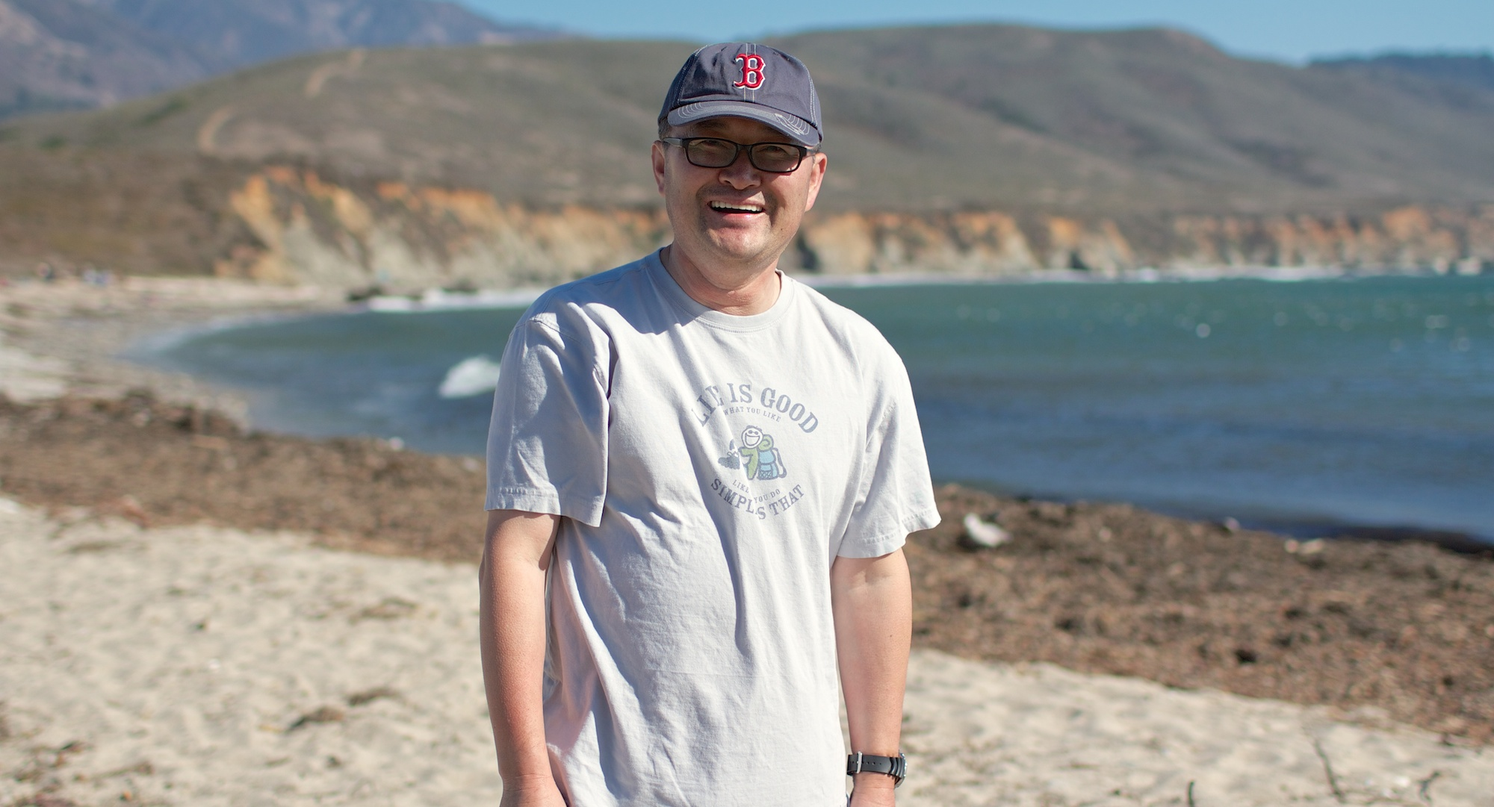
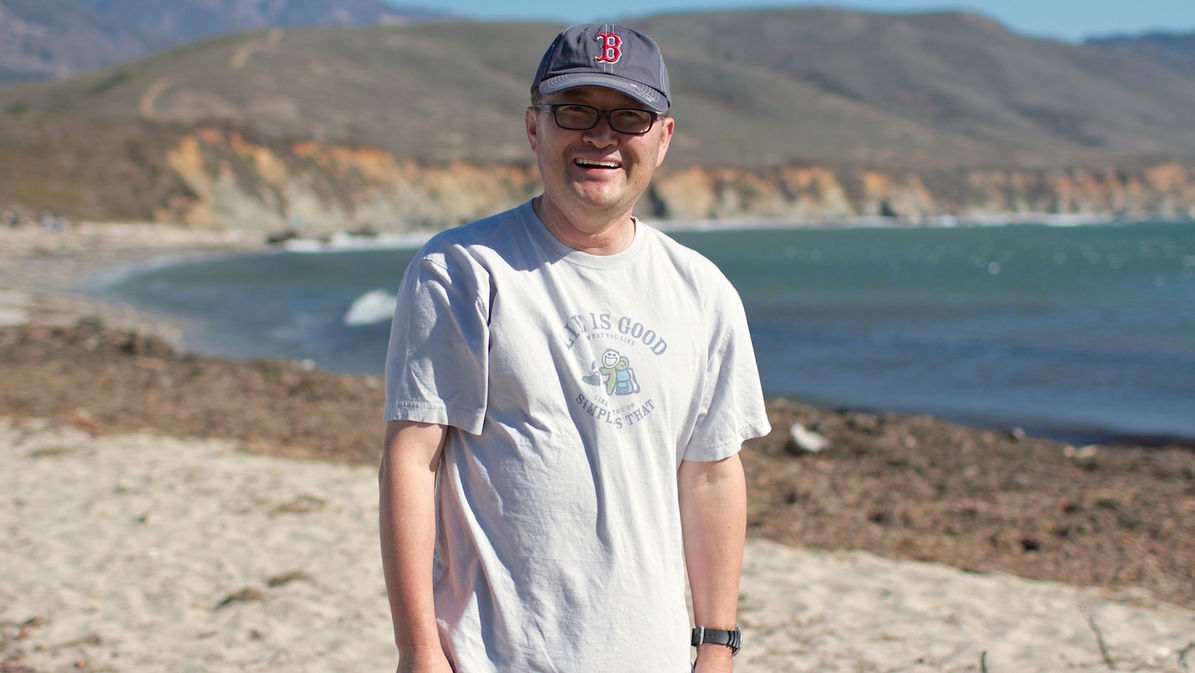
Added slider control, owl.carousel.js and css

diff --git a/js/owl.carousel.min.js b/js/owl.carousel.min.js
@@ -1,0 +1,47 @@
+"function"!==typeof Object.create&&(Object.create=function(f){function g(){}g.prototype=f;return new g});
+(function(f,g,k){var l={init:function(a,b){this.$elem=f(b);this.options=f.extend({},f.fn.owlCarousel.options,this.$elem.data(),a);this.userOptions=a;this.loadContent()},loadContent:function(){function a(a){var d,e="";if("function"===typeof b.options.jsonSuccess)b.options.jsonSuccess.apply(this,[a]);else{for(d in a.owl)a.owl.hasOwnProperty(d)&&(e+=a.owl[d].item);b.$elem.html(e)}b.logIn()}var b=this,e;"function"===typeof b.options.beforeInit&&b.options.beforeInit.apply(this,[b.$elem]);"string"===typeof b.options.jsonPath?
+(e=b.options.jsonPath,f.getJSON(e,a)):b.logIn()},logIn:function(){this.$elem.data("owl-originalStyles",this.$elem.attr("style"));this.$elem.data("owl-originalClasses",this.$elem.attr("class"));this.$elem.css({opacity:0});this.orignalItems=this.options.items;this.checkBrowser();this.wrapperWidth=0;this.checkVisible=null;this.setVars()},setVars:function(){if(0===this.$elem.children().length)return!1;this.baseClass();this.eventTypes();this.$userItems=this.$elem.children();this.itemsAmount=this.$userItems.length;
+this.wrapItems();this.$owlItems=this.$elem.find(".owl-item");this.$owlWrapper=this.$elem.find(".owl-wrapper");this.playDirection="next";this.prevItem=0;this.prevArr=[0];this.currentItem=0;this.customEvents();this.onStartup()},onStartup:function(){this.updateItems();this.calculateAll();this.buildControls();this.updateControls();this.response();this.moveEvents();this.stopOnHover();this.owlStatus();!1!==this.options.transitionStyle&&this.transitionTypes(this.options.transitionStyle);!0===this.options.autoPlay&&
+(this.options.autoPlay=5E3);this.play();this.$elem.find(".owl-wrapper").css("display","block");this.$elem.is(":visible")?this.$elem.css("opacity",1):this.watchVisibility();this.onstartup=!1;this.eachMoveUpdate();"function"===typeof this.options.afterInit&&this.options.afterInit.apply(this,[this.$elem])},eachMoveUpdate:function(){!0===this.options.lazyLoad&&this.lazyLoad();!0===this.options.autoHeight&&this.autoHeight();this.onVisibleItems();"function"===typeof this.options.afterAction&&this.options.afterAction.apply(this,
+[this.$elem])},updateVars:function(){"function"===typeof this.options.beforeUpdate&&this.options.beforeUpdate.apply(this,[this.$elem]);this.watchVisibility();this.updateItems();this.calculateAll();this.updatePosition();this.updateControls();this.eachMoveUpdate();"function"===typeof this.options.afterUpdate&&this.options.afterUpdate.apply(this,[this.$elem])},reload:function(){var a=this;g.setTimeout(function(){a.updateVars()},0)},watchVisibility:function(){var a=this;if(!1===a.$elem.is(":visible"))a.$elem.css({opacity:0}),
+g.clearInterval(a.autoPlayInterval),g.clearInterval(a.checkVisible);else return!1;a.checkVisible=g.setInterval(function(){a.$elem.is(":visible")&&(a.reload(),a.$elem.animate({opacity:1},200),g.clearInterval(a.checkVisible))},500)},wrapItems:function(){this.$userItems.wrapAll('<div class="owl-wrapper">').wrap('<div class="owl-item"></div>');this.$elem.find(".owl-wrapper").wrap('<div class="owl-wrapper-outer">');this.wrapperOuter=this.$elem.find(".owl-wrapper-outer");this.$elem.css("display","block")},
+baseClass:function(){var a=this.$elem.hasClass(this.options.baseClass),b=this.$elem.hasClass(this.options.theme);a||this.$elem.addClass(this.options.baseClass);b||this.$elem.addClass(this.options.theme)},updateItems:function(){var a,b;if(!1===this.options.responsive)return!1;if(!0===this.options.singleItem)return this.options.items=this.orignalItems=1,this.options.itemsCustom=!1,this.options.itemsDesktop=!1,this.options.itemsDesktopSmall=!1,this.options.itemsTablet=!1,this.options.itemsTabletSmall=
+!1,this.options.itemsMobile=!1;a=f(this.options.responsiveBaseWidth).width();a>(this.options.itemsDesktop[0]||this.orignalItems)&&(this.options.items=this.orignalItems);if(!1!==this.options.itemsCustom)for(this.options.itemsCustom.sort(function(a,b){return a[0]-b[0]}),b=0;b<this.options.itemsCustom.length;b+=1)this.options.itemsCustom[b][0]<=a&&(this.options.items=this.options.itemsCustom[b][1]);else a<=this.options.itemsDesktop[0]&&!1!==this.options.itemsDesktop&&(this.options.items=this.options.itemsDesktop[1]),
+a<=this.options.itemsDesktopSmall[0]&&!1!==this.options.itemsDesktopSmall&&(this.options.items=this.options.itemsDesktopSmall[1]),a<=this.options.itemsTablet[0]&&!1!==this.options.itemsTablet&&(this.options.items=this.options.itemsTablet[1]),a<=this.options.itemsTabletSmall[0]&&!1!==this.options.itemsTabletSmall&&(this.options.items=this.options.itemsTabletSmall[1]),a<=this.options.itemsMobile[0]&&!1!==this.options.itemsMobile&&(this.options.items=this.options.itemsMobile[1]);this.options.items>this.itemsAmount&&
+!0===this.options.itemsScaleUp&&(this.options.items=this.itemsAmount)},response:function(){var a=this,b,e;if(!0!==a.options.responsive)return!1;e=f(g).width();a.resizer=function(){f(g).width()!==e&&(!1!==a.options.autoPlay&&g.clearInterval(a.autoPlayInterval),g.clearTimeout(b),b=g.setTimeout(function(){e=f(g).width();a.updateVars()},a.options.responsiveRefreshRate))};f(g).resize(a.resizer)},updatePosition:function(){this.jumpTo(this.currentItem);!1!==this.options.autoPlay&&this.checkAp()},appendItemsSizes:function(){var a=
+this,b=0,e=a.itemsAmount-a.options.items;a.$owlItems.each(function(c){var d=f(this);d.css({width:a.itemWidth}).data("owl-item",Number(c));if(0===c%a.options.items||c===e)c>e||(b+=1);d.data("owl-roundPages",b)})},appendWrapperSizes:function(){this.$owlWrapper.css({width:this.$owlItems.length*this.itemWidth*2,left:0});this.appendItemsSizes()},calculateAll:function(){this.calculateWidth();this.appendWrapperSizes();this.loops();this.max()},calculateWidth:function(){this.itemWidth=Math.round(this.$elem.width()/
+this.options.items)},max:function(){var a=-1*(this.itemsAmount*this.itemWidth-this.options.items*this.itemWidth);this.options.items>this.itemsAmount?this.maximumPixels=a=this.maximumItem=0:(this.maximumItem=this.itemsAmount-this.options.items,this.maximumPixels=a);return a},min:function(){return 0},loops:function(){var a=0,b=0,e,c;this.positionsInArray=[0];this.pagesInArray=[];for(e=0;e<this.itemsAmount;e+=1)b+=this.itemWidth,this.positionsInArray.push(-b),!0===this.options.scrollPerPage&&(c=f(this.$owlItems[e]),
+c=c.data("owl-roundPages"),c!==a&&(this.pagesInArray[a]=this.positionsInArray[e],a=c))},buildControls:function(){if(!0===this.options.navigation||!0===this.options.pagination)this.owlControls=f('<div class="owl-controls"/>').toggleClass("clickable",!this.browser.isTouch).appendTo(this.$elem);!0===this.options.pagination&&this.buildPagination();!0===this.options.navigation&&this.buildButtons()},buildButtons:function(){var a=this,b=f('<div class="owl-buttons"/>');a.owlControls.append(b);a.buttonPrev=
+f("<div/>",{"class":"owl-prev",html:a.options.navigationText[0]||""});a.buttonNext=f("<div/>",{"class":"owl-next",html:a.options.navigationText[1]||""});b.append(a.buttonPrev).append(a.buttonNext);b.on("touchstart.owlControls mousedown.owlControls",'div[class^="owl"]',function(a){a.preventDefault()});b.on("touchend.owlControls mouseup.owlControls",'div[class^="owl"]',function(b){b.preventDefault();f(this).hasClass("owl-next")?a.next():a.prev()})},buildPagination:function(){var a=this;a.paginationWrapper=
+f('<div class="owl-pagination"/>');a.owlControls.append(a.paginationWrapper);a.paginationWrapper.on("touchend.owlControls mouseup.owlControls",".owl-page",function(b){b.preventDefault();Number(f(this).data("owl-page"))!==a.currentItem&&a.goTo(Number(f(this).data("owl-page")),!0)})},updatePagination:function(){var a,b,e,c,d,g;if(!1===this.options.pagination)return!1;this.paginationWrapper.html("");a=0;b=this.itemsAmount-this.itemsAmount%this.options.items;for(c=0;c<this.itemsAmount;c+=1)0===c%this.options.items&&
+(a+=1,b===c&&(e=this.itemsAmount-this.options.items),d=f("<div/>",{"class":"owl-page"}),g=f("<span></span>",{text:!0===this.options.paginationNumbers?a:"","class":!0===this.options.paginationNumbers?"owl-numbers":""}),d.append(g),d.data("owl-page",b===c?e:c),d.data("owl-roundPages",a),this.paginationWrapper.append(d));this.checkPagination()},checkPagination:function(){var a=this;if(!1===a.options.pagination)return!1;a.paginationWrapper.find(".owl-page").each(function(){f(this).data("owl-roundPages")===
+f(a.$owlItems[a.currentItem]).data("owl-roundPages")&&(a.paginationWrapper.find(".owl-page").removeClass("active"),f(this).addClass("active"))})},checkNavigation:function(){if(!1===this.options.navigation)return!1;!1===this.options.rewindNav&&(0===this.currentItem&&0===this.maximumItem?(this.buttonPrev.addClass("disabled"),this.buttonNext.addClass("disabled")):0===this.currentItem&&0!==this.maximumItem?(this.buttonPrev.addClass("disabled"),this.buttonNext.removeClass("disabled")):this.currentItem===
+this.maximumItem?(this.buttonPrev.removeClass("disabled"),this.buttonNext.addClass("disabled")):0!==this.currentItem&&this.currentItem!==this.maximumItem&&(this.buttonPrev.removeClass("disabled"),this.buttonNext.removeClass("disabled")))},updateControls:function(){this.updatePagination();this.checkNavigation();this.owlControls&&(this.options.items>=this.itemsAmount?this.owlControls.hide():this.owlControls.show())},destroyControls:function(){this.owlControls&&this.owlControls.remove()},next:function(a){if(this.isTransition)return!1;
+this.currentItem+=!0===this.options.scrollPerPage?this.options.items:1;if(this.currentItem>this.maximumItem+(!0===this.options.scrollPerPage?this.options.items-1:0))if(!0===this.options.rewindNav)this.currentItem=0,a="rewind";else return this.currentItem=this.maximumItem,!1;this.goTo(this.currentItem,a)},prev:function(a){if(this.isTransition)return!1;this.currentItem=!0===this.options.scrollPerPage&&0<this.currentItem&&this.currentItem<this.options.items?0:this.currentItem-(!0===this.options.scrollPerPage?
+this.options.items:1);if(0>this.currentItem)if(!0===this.options.rewindNav)this.currentItem=this.maximumItem,a="rewind";else return this.currentItem=0,!1;this.goTo(this.currentItem,a)},goTo:function(a,b,e){var c=this;if(c.isTransition)return!1;"function"===typeof c.options.beforeMove&&c.options.beforeMove.apply(this,[c.$elem]);a>=c.maximumItem?a=c.maximumItem:0>=a&&(a=0);c.currentItem=c.owl.currentItem=a;if(!1!==c.options.transitionStyle&&"drag"!==e&&1===c.options.items&&!0===c.browser.support3d)return c.swapSpeed(0),
+!0===c.browser.support3d?c.transition3d(c.positionsInArray[a]):c.css2slide(c.positionsInArray[a],1),c.afterGo(),c.singleItemTransition(),!1;a=c.positionsInArray[a];!0===c.browser.support3d?(c.isCss3Finish=!1,!0===b?(c.swapSpeed("paginationSpeed"),g.setTimeout(function(){c.isCss3Finish=!0},c.options.paginationSpeed)):"rewind"===b?(c.swapSpeed(c.options.rewindSpeed),g.setTimeout(function(){c.isCss3Finish=!0},c.options.rewindSpeed)):(c.swapSpeed("slideSpeed"),g.setTimeout(function(){c.isCss3Finish=!0},
+c.options.slideSpeed)),c.transition3d(a)):!0===b?c.css2slide(a,c.options.paginationSpeed):"rewind"===b?c.css2slide(a,c.options.rewindSpeed):c.css2slide(a,c.options.slideSpeed);c.afterGo()},jumpTo:function(a){"function"===typeof this.options.beforeMove&&this.options.beforeMove.apply(this,[this.$elem]);a>=this.maximumItem||-1===a?a=this.maximumItem:0>=a&&(a=0);this.swapSpeed(0);!0===this.browser.support3d?this.transition3d(this.positionsInArray[a]):this.css2slide(this.positionsInArray[a],1);this.currentItem=
+this.owl.currentItem=a;this.afterGo()},afterGo:function(){this.prevArr.push(this.currentItem);this.prevItem=this.owl.prevItem=this.prevArr[this.prevArr.length-2];this.prevArr.shift(0);this.prevItem!==this.currentItem&&(this.checkPagination(),this.checkNavigation(),this.eachMoveUpdate(),!1!==this.options.autoPlay&&this.checkAp());"function"===typeof this.options.afterMove&&this.prevItem!==this.currentItem&&this.options.afterMove.apply(this,[this.$elem])},stop:function(){this.apStatus="stop";g.clearInterval(this.autoPlayInterval)},
+checkAp:function(){"stop"!==this.apStatus&&this.play()},play:function(){var a=this;a.apStatus="play";if(!1===a.options.autoPlay)return!1;g.clearInterval(a.autoPlayInterval);a.autoPlayInterval=g.setInterval(function(){a.next(!0)},a.options.autoPlay)},swapSpeed:function(a){"slideSpeed"===a?this.$owlWrapper.css(this.addCssSpeed(this.options.slideSpeed)):"paginationSpeed"===a?this.$owlWrapper.css(this.addCssSpeed(this.options.paginationSpeed)):"string"!==typeof a&&this.$owlWrapper.css(this.addCssSpeed(a))},
+addCssSpeed:function(a){return{"-webkit-transition":"all "+a+"ms ease","-moz-transition":"all "+a+"ms ease","-o-transition":"all "+a+"ms ease",transition:"all "+a+"ms ease"}},removeTransition:function(){return{"-webkit-transition":"","-moz-transition":"","-o-transition":"",transition:""}},doTranslate:function(a){return{"-webkit-transform":"translate3d("+a+"px, 0px, 0px)","-moz-transform":"translate3d("+a+"px, 0px, 0px)","-o-transform":"translate3d("+a+"px, 0px, 0px)","-ms-transform":"translate3d("+
+a+"px, 0px, 0px)",transform:"translate3d("+a+"px, 0px,0px)"}},transition3d:function(a){this.$owlWrapper.css(this.doTranslate(a))},css2move:function(a){this.$owlWrapper.css({left:a})},css2slide:function(a,b){var e=this;e.isCssFinish=!1;e.$owlWrapper.stop(!0,!0).animate({left:a},{duration:b||e.options.slideSpeed,complete:function(){e.isCssFinish=!0}})},checkBrowser:function(){var a=k.createElement("div");a.style.cssText="  -moz-transform:translate3d(0px, 0px, 0px); -ms-transform:translate3d(0px, 0px, 0px); -o-transform:translate3d(0px, 0px, 0px); -webkit-transform:translate3d(0px, 0px, 0px); transform:translate3d(0px, 0px, 0px)";
+a=a.style.cssText.match(/translate3d\(0px, 0px, 0px\)/g);this.browser={support3d:null!==a&&1===a.length,isTouch:"ontouchstart"in g||g.navigator.msMaxTouchPoints}},moveEvents:function(){if(!1!==this.options.mouseDrag||!1!==this.options.touchDrag)this.gestures(),this.disabledEvents()},eventTypes:function(){var a=["s","e","x"];this.ev_types={};!0===this.options.mouseDrag&&!0===this.options.touchDrag?a=["touchstart.owl mousedown.owl","touchmove.owl mousemove.owl","touchend.owl touchcancel.owl mouseup.owl"]:
+!1===this.options.mouseDrag&&!0===this.options.touchDrag?a=["touchstart.owl","touchmove.owl","touchend.owl touchcancel.owl"]:!0===this.options.mouseDrag&&!1===this.options.touchDrag&&(a=["mousedown.owl","mousemove.owl","mouseup.owl"]);this.ev_types.start=a[0];this.ev_types.move=a[1];this.ev_types.end=a[2]},disabledEvents:function(){this.$elem.on("dragstart.owl",function(a){a.preventDefault()});this.$elem.on("mousedown.disableTextSelect",function(a){return f(a.target).is("input, textarea, select, option")})},
+gestures:function(){function a(a){if(void 0!==a.touches)return{x:a.touches[0].pageX,y:a.touches[0].pageY};if(void 0===a.touches){if(void 0!==a.pageX)return{x:a.pageX,y:a.pageY};if(void 0===a.pageX)return{x:a.clientX,y:a.clientY}}}function b(a){"on"===a?(f(k).on(d.ev_types.move,e),f(k).on(d.ev_types.end,c)):"off"===a&&(f(k).off(d.ev_types.move),f(k).off(d.ev_types.end))}function e(b){b=b.originalEvent||b||g.event;d.newPosX=a(b).x-h.offsetX;d.newPosY=a(b).y-h.offsetY;d.newRelativeX=d.newPosX-h.relativePos;
+"function"===typeof d.options.startDragging&&!0!==h.dragging&&0!==d.newRelativeX&&(h.dragging=!0,d.options.startDragging.apply(d,[d.$elem]));(8<d.newRelativeX||-8>d.newRelativeX)&&!0===d.browser.isTouch&&(void 0!==b.preventDefault?b.preventDefault():b.returnValue=!1,h.sliding=!0);(10<d.newPosY||-10>d.newPosY)&&!1===h.sliding&&f(k).off("touchmove.owl");d.newPosX=Math.max(Math.min(d.newPosX,d.newRelativeX/5),d.maximumPixels+d.newRelativeX/5);!0===d.browser.support3d?d.transition3d(d.newPosX):d.css2move(d.newPosX)}
+function c(a){a=a.originalEvent||a||g.event;var c;a.target=a.target||a.srcElement;h.dragging=!1;!0!==d.browser.isTouch&&d.$owlWrapper.removeClass("grabbing");d.dragDirection=0>d.newRelativeX?d.owl.dragDirection="left":d.owl.dragDirection="right";0!==d.newRelativeX&&(c=d.getNewPosition(),d.goTo(c,!1,"drag"),h.targetElement===a.target&&!0!==d.browser.isTouch&&(f(a.target).on("click.disable",function(a){a.stopImmediatePropagation();a.stopPropagation();a.preventDefault();f(a.target).off("click.disable")}),
+a=f._data(a.target,"events").click,c=a.pop(),a.splice(0,0,c)));b("off")}var d=this,h={offsetX:0,offsetY:0,baseElWidth:0,relativePos:0,position:null,minSwipe:null,maxSwipe:null,sliding:null,dargging:null,targetElement:null};d.isCssFinish=!0;d.$elem.on(d.ev_types.start,".owl-wrapper",function(c){c=c.originalEvent||c||g.event;var e;if(3===c.which)return!1;if(!(d.itemsAmount<=d.options.items)){if(!1===d.isCssFinish&&!d.options.dragBeforeAnimFinish||!1===d.isCss3Finish&&!d.options.dragBeforeAnimFinish)return!1;
+!1!==d.options.autoPlay&&g.clearInterval(d.autoPlayInterval);!0===d.browser.isTouch||d.$owlWrapper.hasClass("grabbing")||d.$owlWrapper.addClass("grabbing");d.newPosX=0;d.newRelativeX=0;f(this).css(d.removeTransition());e=f(this).position();h.relativePos=e.left;h.offsetX=a(c).x-e.left;h.offsetY=a(c).y-e.top;b("on");h.sliding=!1;h.targetElement=c.target||c.srcElement}})},getNewPosition:function(){var a=this.closestItem();a>this.maximumItem?a=this.currentItem=this.maximumItem:0<=this.newPosX&&(this.currentItem=
+a=0);return a},closestItem:function(){var a=this,b=!0===a.options.scrollPerPage?a.pagesInArray:a.positionsInArray,e=a.newPosX,c=null;f.each(b,function(d,g){e-a.itemWidth/20>b[d+1]&&e-a.itemWidth/20<g&&"left"===a.moveDirection()?(c=g,a.currentItem=!0===a.options.scrollPerPage?f.inArray(c,a.positionsInArray):d):e+a.itemWidth/20<g&&e+a.itemWidth/20>(b[d+1]||b[d]-a.itemWidth)&&"right"===a.moveDirection()&&(!0===a.options.scrollPerPage?(c=b[d+1]||b[b.length-1],a.currentItem=f.inArray(c,a.positionsInArray)):
+(c=b[d+1],a.currentItem=d+1))});return a.currentItem},moveDirection:function(){var a;0>this.newRelativeX?(a="right",this.playDirection="next"):(a="left",this.playDirection="prev");return a},customEvents:function(){var a=this;a.$elem.on("owl.next",function(){a.next()});a.$elem.on("owl.prev",function(){a.prev()});a.$elem.on("owl.play",function(b,e){a.options.autoPlay=e;a.play();a.hoverStatus="play"});a.$elem.on("owl.stop",function(){a.stop();a.hoverStatus="stop"});a.$elem.on("owl.goTo",function(b,e){a.goTo(e)});
+a.$elem.on("owl.jumpTo",function(b,e){a.jumpTo(e)})},stopOnHover:function(){var a=this;!0===a.options.stopOnHover&&!0!==a.browser.isTouch&&!1!==a.options.autoPlay&&(a.$elem.on("mouseover",function(){a.stop()}),a.$elem.on("mouseout",function(){"stop"!==a.hoverStatus&&a.play()}))},lazyLoad:function(){var a,b,e,c,d;if(!1===this.options.lazyLoad)return!1;for(a=0;a<this.itemsAmount;a+=1)b=f(this.$owlItems[a]),"loaded"!==b.data("owl-loaded")&&(e=b.data("owl-item"),c=b.find(".lazyOwl"),"string"!==typeof c.data("src")?
+b.data("owl-loaded","loaded"):(void 0===b.data("owl-loaded")&&(c.hide(),b.addClass("loading").data("owl-loaded","checked")),(d=!0===this.options.lazyFollow?e>=this.currentItem:!0)&&e<this.currentItem+this.options.items&&c.length&&this.lazyPreload(b,c)))},lazyPreload:function(a,b){function e(){a.data("owl-loaded","loaded").removeClass("loading");b.removeAttr("data-src");"fade"===d.options.lazyEffect?b.fadeIn(400):b.show();"function"===typeof d.options.afterLazyLoad&&d.options.afterLazyLoad.apply(this,
+[d.$elem])}function c(){f+=1;d.completeImg(b.get(0))||!0===k?e():100>=f?g.setTimeout(c,100):e()}var d=this,f=0,k;"DIV"===b.prop("tagName")?(b.css("background-image","url("+b.data("src")+")"),k=!0):b[0].src=b.data("src");c()},autoHeight:function(){function a(){var a=f(e.$owlItems[e.currentItem]).height();e.wrapperOuter.css("height",a+"px");e.wrapperOuter.hasClass("autoHeight")||g.setTimeout(function(){e.wrapperOuter.addClass("autoHeight")},0)}function b(){d+=1;e.completeImg(c.get(0))?a():100>=d?g.setTimeout(b,
+100):e.wrapperOuter.css("height","")}var e=this,c=f(e.$owlItems[e.currentItem]).find("img"),d;void 0!==c.get(0)?(d=0,b()):a()},completeImg:function(a){return!a.complete||"undefined"!==typeof a.naturalWidth&&0===a.naturalWidth?!1:!0},onVisibleItems:function(){var a;!0===this.options.addClassActive&&this.$owlItems.removeClass("active");this.visibleItems=[];for(a=this.currentItem;a<this.currentItem+this.options.items;a+=1)this.visibleItems.push(a),!0===this.options.addClassActive&&f(this.$owlItems[a]).addClass("active");
+this.owl.visibleItems=this.visibleItems},transitionTypes:function(a){this.outClass="owl-"+a+"-out";this.inClass="owl-"+a+"-in"},singleItemTransition:function(){var a=this,b=a.outClass,e=a.inClass,c=a.$owlItems.eq(a.currentItem),d=a.$owlItems.eq(a.prevItem),f=Math.abs(a.positionsInArray[a.currentItem])+a.positionsInArray[a.prevItem],g=Math.abs(a.positionsInArray[a.currentItem])+a.itemWidth/2;a.isTransition=!0;a.$owlWrapper.addClass("owl-origin").css({"-webkit-transform-origin":g+"px","-moz-perspective-origin":g+
+"px","perspective-origin":g+"px"});d.css({position:"relative",left:f+"px"}).addClass(b).on("webkitAnimationEnd oAnimationEnd MSAnimationEnd animationend",function(){a.endPrev=!0;d.off("webkitAnimationEnd oAnimationEnd MSAnimationEnd animationend");a.clearTransStyle(d,b)});c.addClass(e).on("webkitAnimationEnd oAnimationEnd MSAnimationEnd animationend",function(){a.endCurrent=!0;c.off("webkitAnimationEnd oAnimationEnd MSAnimationEnd animationend");a.clearTransStyle(c,e)})},clearTransStyle:function(a,
+b){a.css({position:"",left:""}).removeClass(b);this.endPrev&&this.endCurrent&&(this.$owlWrapper.removeClass("owl-origin"),this.isTransition=this.endCurrent=this.endPrev=!1)},owlStatus:function(){this.owl={userOptions:this.userOptions,baseElement:this.$elem,userItems:this.$userItems,owlItems:this.$owlItems,currentItem:this.currentItem,prevItem:this.prevItem,visibleItems:this.visibleItems,isTouch:this.browser.isTouch,browser:this.browser,dragDirection:this.dragDirection}},clearEvents:function(){this.$elem.off(".owl owl mousedown.disableTextSelect");
+f(k).off(".owl owl");f(g).off("resize",this.resizer)},unWrap:function(){0!==this.$elem.children().length&&(this.$owlWrapper.unwrap(),this.$userItems.unwrap().unwrap(),this.owlControls&&this.owlControls.remove());this.clearEvents();this.$elem.attr("style",this.$elem.data("owl-originalStyles")||"").attr("class",this.$elem.data("owl-originalClasses"))},destroy:function(){this.stop();g.clearInterval(this.checkVisible);this.unWrap();this.$elem.removeData()},reinit:function(a){a=f.extend({},this.userOptions,
+a);this.unWrap();this.init(a,this.$elem)},addItem:function(a,b){var e;if(!a)return!1;if(0===this.$elem.children().length)return this.$elem.append(a),this.setVars(),!1;this.unWrap();e=void 0===b||-1===b?-1:b;e>=this.$userItems.length||-1===e?this.$userItems.eq(-1).after(a):this.$userItems.eq(e).before(a);this.setVars()},removeItem:function(a){if(0===this.$elem.children().length)return!1;a=void 0===a||-1===a?-1:a;this.unWrap();this.$userItems.eq(a).remove();this.setVars()}};f.fn.owlCarousel=function(a){return this.each(function(){if(!0===
+f(this).data("owl-init"))return!1;f(this).data("owl-init",!0);var b=Object.create(l);b.init(a,this);f.data(this,"owlCarousel",b)})};f.fn.owlCarousel.options={items:5,itemsCustom:!1,itemsDesktop:[1199,4],itemsDesktopSmall:[979,3],itemsTablet:[768,2],itemsTabletSmall:!1,itemsMobile:[479,1],singleItem:!1,itemsScaleUp:!1,slideSpeed:200,paginationSpeed:800,rewindSpeed:1E3,autoPlay:!1,stopOnHover:!1,navigation:!1,navigationText:["prev","next"],rewindNav:!0,scrollPerPage:!1,pagination:!0,paginationNumbers:!1,
+responsive:!0,responsiveRefreshRate:200,responsiveBaseWidth:g,baseClass:"owl-carousel",theme:"owl-theme",lazyLoad:!1,lazyFollow:!0,lazyEffect:"fade",autoHeight:!1,jsonPath:!1,jsonSuccess:!1,dragBeforeAnimFinish:!0,mouseDrag:!0,touchDrag:!0,addClassActive:!1,transitionStyle:!1,beforeUpdate:!1,afterUpdate:!1,beforeInit:!1,afterInit:!1,beforeMove:!1,afterMove:!1,afterAction:!1,startDragging:!1,afterLazyLoad:!1}})(jQuery,window,document);

diff --git a/css/owl.theme.css b/css/owl.theme.css
@@ -1,0 +1,79 @@
+/*
+* 	Owl Carousel Owl Demo Theme 
+*	v1.3.3
+*/
+
+.owl-theme .owl-controls{
+	margin-top: 10px;
+	text-align: center;
+}
+
+/* Styling Next and Prev buttons */
+
+.owl-theme .owl-controls .owl-buttons div{
+	color: #FFF;
+	display: inline-block;
+	zoom: 1;
+	*display: inline;/*IE7 life-saver */
+	margin: 5px;
+	padding: 3px 10px;
+	font-size: 12px;
+	-webkit-border-radius: 30px;
+	-moz-border-radius: 30px;
+	border-radius: 30px;
+	background: #869791;
+	filter: Alpha(Opacity=50);/*IE7 fix*/
+	opacity: 0.5;
+}
+/* Clickable class fix problem with hover on touch devices */
+/* Use it for non-touch hover action */
+.owl-theme .owl-controls.clickable .owl-buttons div:hover{
+	filter: Alpha(Opacity=100);/*IE7 fix*/
+	opacity: 1;
+	text-decoration: none;
+}
+
+/* Styling Pagination*/
+
+.owl-theme .owl-controls .owl-page{
+	display: inline-block;
+	zoom: 1;
+	*display: inline;/*IE7 life-saver */
+}
+.owl-theme .owl-controls .owl-page span{
+	display: block;
+	width: 12px;
+	height: 12px;
+	margin: 5px 7px;
+	filter: Alpha(Opacity=50);/*IE7 fix*/
+	opacity: 0.5;
+	-webkit-border-radius: 20px;
+	-moz-border-radius: 20px;
+	border-radius: 20px;
+	background: #869791;
+}
+
+.owl-theme .owl-controls .owl-page.active span,
+.owl-theme .owl-controls.clickable .owl-page:hover span{
+	filter: Alpha(Opacity=100);/*IE7 fix*/
+	opacity: 1;
+}
+
+/* If PaginationNumbers is true */
+
+.owl-theme .owl-controls .owl-page span.owl-numbers{
+	height: auto;
+	width: auto;
+	color: #FFF;
+	padding: 2px 10px;
+	font-size: 12px;
+	-webkit-border-radius: 30px;
+	-moz-border-radius: 30px;
+	border-radius: 30px;
+}
+
+/* preloading images */
+.owl-item.loading{
+	min-height: 150px;
+	background: url(AjaxLoader.gif) no-repeat center center
+}

diff --git a/css/owl.carousel.css b/css/owl.carousel.css
@@ -1,0 +1,71 @@
+/* 
+ * 	Core Owl Carousel CSS File
+ *	v1.3.3
+ */
+
+/* clearfix */
+.owl-carousel .owl-wrapper:after {
+	content: ".";
+	display: block;
+	clear: both;
+	visibility: hidden;
+	line-height: 0;
+	height: 0;
+}
+/* display none until init */
+.owl-carousel{
+	display: none;
+	position: relative;
+	width: 100%;
+	-ms-touch-action: pan-y;
+}
+.owl-carousel .owl-wrapper{
+	display: none;
+	position: relative;
+	-webkit-transform: translate3d(0px, 0px, 0px);
+}
+.owl-carousel .owl-wrapper-outer{
+	overflow: hidden;
+	position: relative;
+	width: 100%;
+}
+.owl-carousel .owl-wrapper-outer.autoHeight{
+	-webkit-transition: height 500ms ease-in-out;
+	-moz-transition: height 500ms ease-in-out;
+	-ms-transition: height 500ms ease-in-out;
+	-o-transition: height 500ms ease-in-out;
+	transition: height 500ms ease-in-out;
+}
+	
+.owl-carousel .owl-item{
+	float: left;
+}
+.owl-controls .owl-page,
+.owl-controls .owl-buttons div{
+	cursor: pointer;
+}
+.owl-controls {
+	-webkit-user-select: none;
+	-khtml-user-select: none;
+	-moz-user-select: none;
+	-ms-user-select: none;
+	user-select: none;
+	-webkit-tap-highlight-color: rgba(0, 0, 0, 0);
+}
+
+/* mouse grab icon */
+.grabbing { 
+    cursor:url(grabbing.png) 8 8, move;
+}
+
+/* fix */
+.owl-carousel  .owl-wrapper,
+.owl-carousel  .owl-item{
+	-webkit-backface-visibility: hidden;
+	-moz-backface-visibility:    hidden;
+	-ms-backface-visibility:     hidden;
+  -webkit-transform: translate3d(0,0,0);
+  -moz-transform: translate3d(0,0,0);
+  -ms-transform: translate3d(0,0,0);
+}
+

diff --git a/_layouts/default.html b/_layouts/default.html
@@ -16,6 +16,10 @@
   <link rel="stylesheet" href="/css/hana.css">
   <link rel="shortcut icon" href="/img/favicon.ico" type="image/x-icon">
 
+  <!-- own carousel stylesheets -->
+  <link rel="stylesheet" href="/css/owl.carousel.css">
+  <link rel="stylesheet" href="/css/owl.theme.css">
+
 </head>
 <body>
 
@@ -38,7 +42,8 @@
 {{ content }}
 <!-- content ends -->
 
-<script src="//ajax.googleapis.com/ajax/libs/jquery/2.1.0/jquery.min.js"></script>
+<script src="//ajax.googleapis.com/ajax/libs/jquery/1.9.1/jquery.min.js"></script>
+<script src="/js/owl.carousel.min.js"></script>
 <script>
   function isMobile() {
     if( navigator.userAgent.match(/Android/i)
@@ -84,6 +89,11 @@
 
     // next content to follow should skip over by a screenful
     $('.content').css('margin-top', h + 'px');
+    $('.carousel').owlCarousel({
+      "singleItem":true,
+      "slideSpeed": 300
+    });
+
   });
 </script>
 

diff --git a/index.html b/index.html
@@ -72,8 +72,9 @@ title: 하나의 씨앗 교회
   </div>
 </div>
 
-<div class="big">
-  <img src="img/pastor-couple.jpg" class="bigimg pastoran">
+<div class="owl-carousel carousel">
+  <div class="big"><img src="img/pastor-couple.jpg" class="bigimg pastoran"></div>
+  <div class="big"><img src="img/pastoran.jpg" class="bigimg pastoran"></div>
 </div>
 
 
